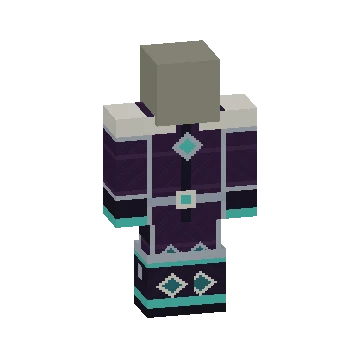
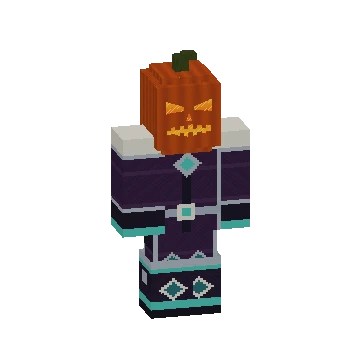
Move Dread Lantern helmet to premium tier 40

Changed region(s): [[0.275, 0.0917, 0.7333, 0.8861]]

diff --git a/components/season-road.tsx b/components/season-road.tsx
@@ -44,8 +44,8 @@ const cosmeticTypes: Record<string, string> = {
   hollow_regent_shield: "Shield Style",
   hollow_regent_crown: "Headwear Style",
   nevermore_ghost: "Pet",
-  harvest_warden_regalia: "Armor & Helmet Styles",
-  hollow_regent_regalia: "Armor Style",
+  harvest_warden_regalia: "Armor Style",
+  hollow_regent_regalia: "Armor & Helmet Styles",
 };
 function Details({ reward: r, id }: { reward: Reward; id: string }) {
   return (

diff --git a/app/season-pass/page.tsx b/app/season-pass/page.tsx
@@ -87,7 +87,7 @@ export default function SeasonPass() {
               src="/season/rewards/hollow_regent_regalia-large.webp"
               width={800}
               height={800}
-              alt="Hollow Regent chest, leggings and boots worn together on a neutral mannequin"
+              alt="Hollow Regent armor with the Dread Lantern helmet"
               loading="lazy"
             />
             <img

diff --git a/docs/season-road/mobile-and-depth-fix.md b/docs/season-road/mobile-and-depth-fix.md
@@ -2,6 +2,8 @@
 
 Purchase artwork is contained in a fixed-height grid cell: desktop 510px, phone 330px. At 390px viewport, the artwork cell ends 26px before the copy begins; no horizontal overflow. Desktop layout also checked.
 
-All 39 browser model payloads regenerated with deterministic separation of coplanar faces, applied after model assembly and before grouping by texture. Same/opposite winding regression check passes; inputs remain unchanged. This corrects website preview depth conflicts, not the Minecraft renderer. Shovel and outfit turntables checked in browser, including the new original Dread Lantern model with tier-40 regular armor. npm run verify: 22 tests and static export pass.
+All 39 browser model payloads regenerated with deterministic separation of coplanar faces, applied after model assembly and before grouping by texture. Same/opposite winding regression check passes; inputs remain unchanged. This corrects website preview depth conflicts, not the Minecraft renderer. Shovel and outfit turntables checked in browser, including the new original Dread Lantern model with tier-40 premium armor. npm run verify: 22 tests and static export pass.
 
-Dread Lantern source: UnrealSkills/cosmetics-plugin/authoring/season1/jack_o_lantern.py. Website previews use its actual model/textures. Server reward definition candidate appends season1:jack_o_lantern as part 3 of the regular final bundle. Server release remains gated on saved-contract migration and native wearable fit/first-person acceptance; this page does not grant ownership.
+Dread Lantern source: UnrealSkills/cosmetics-plugin/authoring/season1/jack_o_lantern.py. Website previews use its actual model/textures. Server reward definition candidate appends season1:jack_o_lantern as part 3 of the premium final bundle. Server release remains gated on saved-contract migration and native wearable fit/first-person acceptance; this page does not grant ownership.
+
+User confirmed Premium track: helmet moved to Hollow Regent tier-40 bundle; free armor restored. Website verification and 58 reward tests pass, including no helmet for regular-only progression.
